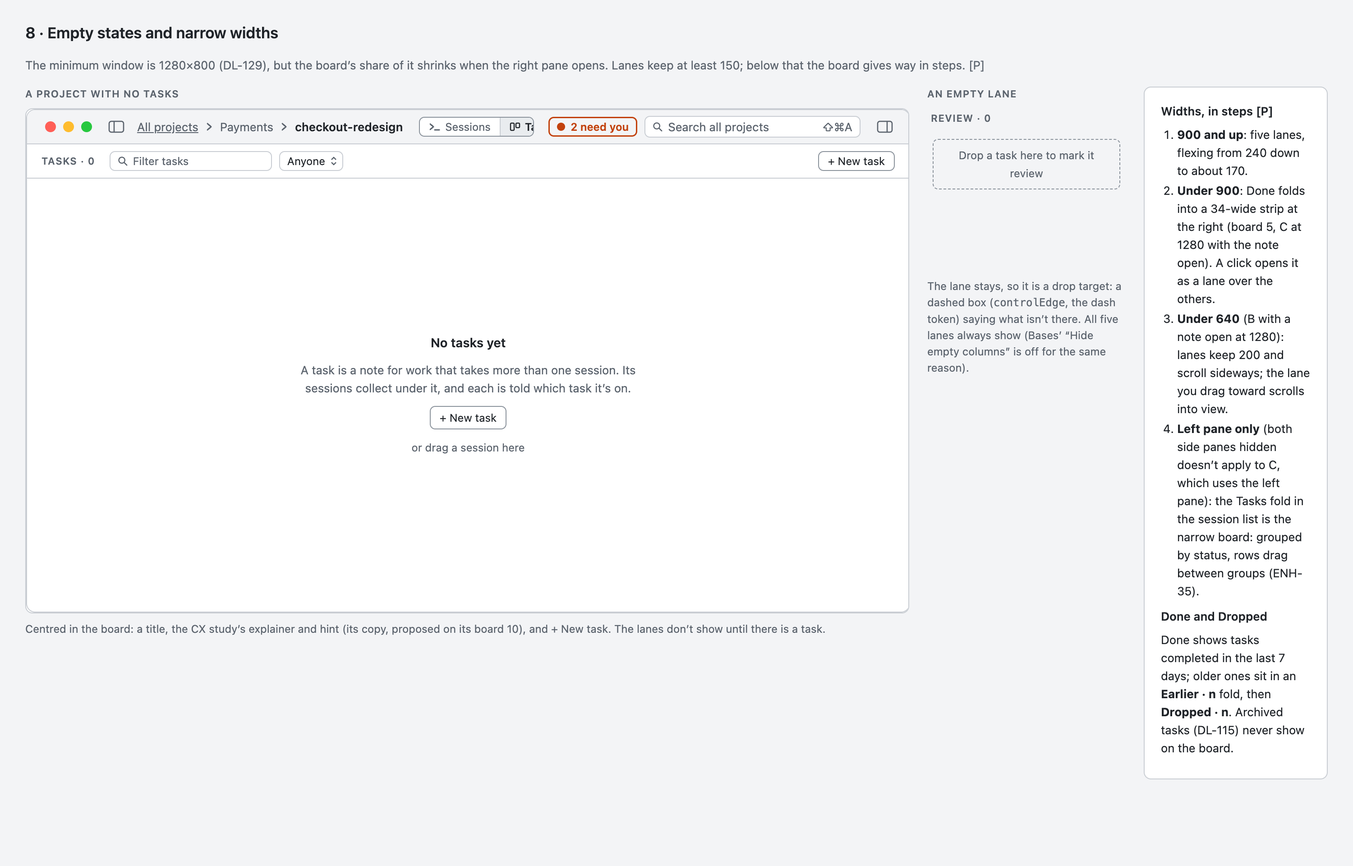
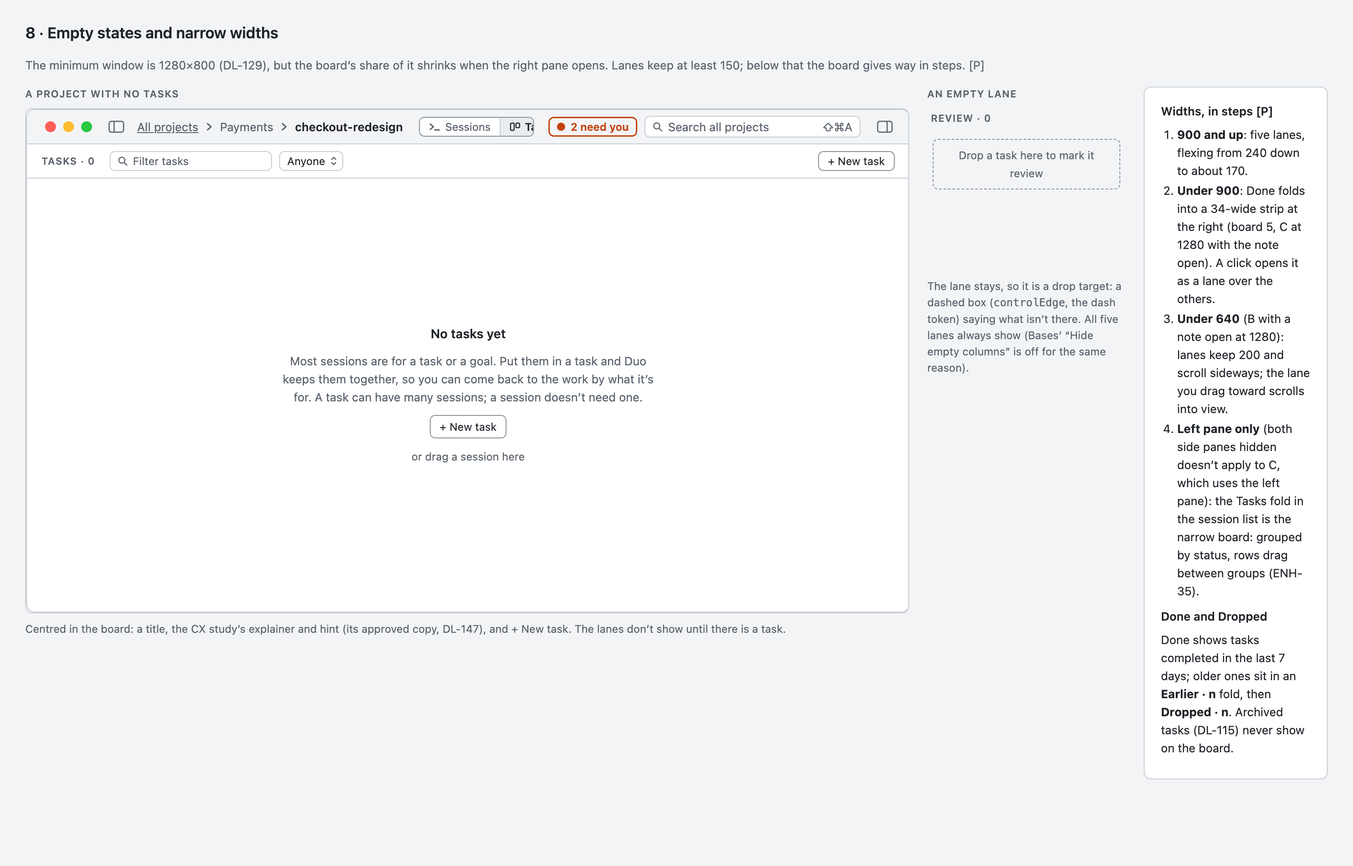
Task board: lanes: lives in the project's brief (DL-147), and the empty board uses the approved copy
DL-150 gains a pointer: `lanes:` goes in whichever note is the brief (_PROJECT.md, PROJECT.md,
or a project_brief note). Boards 8 and 12 updated and republished.

Claude-Session: https://claude.ai/code/session_01XMo91HX8JL9bL8pN3aSwBY

Changed region(s): [[0.217, 0.375, 0.496, 0.5312], [0.279, 0.7188, 0.589, 0.75]]

diff --git a/docs/design/task-board-study/canvas/boards/12-columns.html b/docs/design/task-board-study/canvas/boards/12-columns.html
@@ -135,7 +135,7 @@ table.cmp thead th{font:600 11px/16px -apple-system,system-ui,sans-serif;letter-
 </style>
 </head>
 <body>
-<div class="bd" style="width:1760px;height:1120px;gap:14px"><div class="bt">12 · Adding and removing columns</div><div class="bsub">Geoff, on board 4: “we need a way to add/remove columns”. A column <i>is</i> a <code>status</code> value, so adding “Blocked” means tasks dropped there get <code>status: blocked</code>: plain text that Obsidian, Bases and TaskNotes read. The project’s list of columns needs a home on disk; the proposal is a <code>lanes</code> list in <code>PROJECT.md</code>, written only once you change the default five [P].</div><div style="display:flex;gap:20px;align-items:flex-start"><div style="display:flex;flex-direction:column;gap:8px;flex:none"><div class="cap">A project with a Blocked column; the Review column’s menu open; + Add Column</div><div class="frame" style="width:1200px;height:560px;"><div class="w" style="width:1200px;height:560px;border:1px solid #C9CDD3;border-radius:10px"><div class="tb">
+<div class="bd" style="width:1760px;height:1120px;gap:14px"><div class="bt">12 · Adding and removing columns</div><div class="bsub">Geoff, on board 4: “we need a way to add/remove columns”. A column <i>is</i> a <code>status</code> value, so adding “Blocked” means tasks dropped there get <code>status: blocked</code>: plain text that Obsidian, Bases and TaskNotes read. The project’s list of columns is a <code>lanes</code> list in the project’s brief (<code>_PROJECT.md</code>, <code>PROJECT.md</code> or the <code>project_brief</code> note, DL-147), written only once you change the default five (DL-150).</div><div style="display:flex;gap:20px;align-items:flex-start"><div style="display:flex;flex-direction:column;gap:8px;flex:none"><div class="cap">A project with a Blocked column; the Review column’s menu open; + Add Column</div><div class="frame" style="width:1200px;height:560px;"><div class="w" style="width:1200px;height:560px;border:1px solid #C9CDD3;border-radius:10px"><div class="tb">
 <span class="tl"><i style="background:#FF5F57"></i><i style="background:#FEBC2E"></i><i style="background:#28C840"></i></span>
 <span class="tgl"><svg width="18" height="14" viewBox="0 0 18 14"><rect x="1" y="1" width="16" height="12" rx="2.5" fill="none" stroke="#5B636D" stroke-width="1.3"/><path d="M6.5 1v12" stroke="#5B636D" stroke-width="1.3"/></svg></span>
 <span style="text-decoration:underline;color:#5B636D">All projects</span><svg width="8" height="10" viewBox="0 0 8 10" style="flex:none"><path d="M2 1.5 6 5 2 8.5" fill="none" stroke="#5B636D" stroke-width="1.5" stroke-linecap="round" stroke-linejoin="round"/></svg><span class="t2">Payments</span><svg width="8" height="10" viewBox="0 0 8 10" style="flex:none"><path d="M2 1.5 6 5 2 8.5" fill="none" stroke="#5B636D" stroke-width="1.5" stroke-linecap="round" stroke-linejoin="round"/></svg><span style="font-weight:600">checkout-redesign</span><span class="segc" style="margin-left:10px"><span class="" style="gap:5px"><svg width="13" height="10" viewBox="0 0 13 10"><path d="M1.5 2 5 5 1.5 8" fill="none" stroke="currentColor" stroke-width="1.5" stroke-linecap="round" stroke-linejoin="round"/><path d="M6.5 8.5h5" stroke="currentColor" stroke-width="1.5" stroke-linecap="round"/></svg>Sessions</span><span class="on" style="gap:5px"><svg width="12" height="10" viewBox="0 0 12 10" style="flex:none"><rect x="1" y="1" width="4" height="8" rx="1" fill="none" stroke="currentColor" stroke-width="1.2"/><rect x="7" y="1" width="4" height="5" rx="1" fill="none" stroke="currentColor" stroke-width="1.2"/></svg>Tasks</span></span>
@@ -144,7 +144,7 @@ table.cmp thead th{font:600 11px/16px -apple-system,system-ui,sans-serif;letter-
 <span class="tgl" style="margin-left:4px"><svg width="18" height="14" viewBox="0 0 18 14"><rect x="1" y="1" width="16" height="12" rx="2.5" fill="none" stroke="#5B636D" stroke-width="1.3"/><path d="M11.5 1v12" stroke="#5B636D" stroke-width="1.3"/></svg></span>
 </div><div style="display:flex;flex:1;min-height:0"><div style="flex:1;display:flex;flex-direction:column"><div style="display:flex;align-items:center;gap:8px;height:38px;flex:none;padding:0 16px;border-bottom:1px solid #C9CDD3"><span class="sl">Tasks · 11</span><span class="filter" style="width:180px;margin-left:8px"><svg width="11" height="11" viewBox="0 0 12 12" style="flex:none"><circle cx="5" cy="5" r="3.6" fill="none" stroke="#5B636D" stroke-width="1.3"/><path d="M7.8 7.8 11 11" stroke="#5B636D" stroke-width="1.3" stroke-linecap="round"/></svg>Filter tasks</span><span class="popup">Anyone<svg width="7" height="10" viewBox="0 0 7 10"><path d="M1 3.5 3.5 1 6 3.5M1 6.5 3.5 9 6 6.5" fill="none" stroke="#5B636D" stroke-width="1.2"/></svg></span><span style="flex:1"></span><span class="btn" style="align-self:center;height:22px">+ New task</span></div><div style="display:flex;gap:10px;flex:1;min-height:0;padding:10px 16px 16px;position:relative"><div class="lane"><div class="lh" style=""><span>Open · 3</span></div><div class="lb"><div class="tc"><div class="tt"><svg width="10" height="10" viewBox="0 0 10 10" style="flex:none"><rect x="1" y="1" width="8" height="8" rx="2" fill="none" stroke="#5B636D" stroke-width="1.3"/></svg><span style="flex:1">Pricing page copy</span></div></div><div class="tc"><div class="tt"><svg width="10" height="10" viewBox="0 0 10 10" style="flex:none"><rect x="1" y="1" width="8" height="8" rx="2" fill="none" stroke="#5B636D" stroke-width="1.3"/></svg><span style="flex:1">Refund flow edge cases</span></div></div><div class="tc"><div class="tt"><svg width="10" height="10" viewBox="0 0 10 10" style="flex:none"><rect x="1" y="1" width="8" height="8" rx="2" fill="none" stroke="#5B636D" stroke-width="1.3"/></svg><span style="flex:1">Pull the top three quotes</span></div></div></div></div><div class="lane"><div class="lh" style=""><span>In progress · 2</span></div><div class="lb"><div class="tc"><div class="tt"><svg width="10" height="10" viewBox="0 0 10 10" style="flex:none"><rect x="1" y="1" width="8" height="8" rx="2" fill="none" stroke="#5B636D" stroke-width="1.3"/></svg><span style="flex:1">PRD v2</span></div></div><div class="tc"><div class="tt"><svg width="10" height="10" viewBox="0 0 10 10" style="flex:none"><rect x="1" y="1" width="8" height="8" rx="2" fill="none" stroke="#5B636D" stroke-width="1.3"/></svg><span style="flex:1">Exec review prep</span></div></div></div></div><div class="lane"><div class="lh" style=""><span>Blocked · 1</span></div><div class="lb"><div class="tc"><div class="tt"><svg width="10" height="10" viewBox="0 0 10 10" style="flex:none"><rect x="1" y="1" width="8" height="8" rx="2" fill="none" stroke="#5B636D" stroke-width="1.3"/></svg><span style="flex:1">Analytics events spec</span></div><div class=mt><span>waiting on Data team</span></div></div></div></div><div class="lane"><div class="lh" style=""><span>Review · 1</span><span style="margin-left:auto;width:18px;height:18px;border-radius:4px;display:flex;align-items:center;justify-content:center;background:#E9ECEF;color:#1F2328">⋯</span></div><div class="lb"><div class="tc"><div class="tt"><svg width="10" height="10" viewBox="0 0 10 10" style="flex:none"><rect x="1" y="1" width="8" height="8" rx="2" fill="none" stroke="#5B636D" stroke-width="1.3"/></svg><span style="flex:1">Checkout copy audit</span></div></div></div></div><div class="lane"><div class="lh" style=""><span>Done · 2</span></div><div class="lb"><div class="tc"><div class="tt"><svg width="10" height="10" viewBox="0 0 10 10" style="flex:none"><rect x="1" y="1" width="8" height="8" rx="2" fill="none" stroke="#5B636D" stroke-width="1.3"/></svg><span style="flex:1">Interview synthesis</span></div></div></div></div><div style="width:150px;flex:none;display:flex;flex-direction:column;gap:6px"><div class="lh" style="color:#1F2328">&nbsp;</div><div style="border:1px dashed #8B939C;border-radius:6px;padding:8px 10px;display:flex;flex-direction:column;gap:6px"><span class="filter" style="width:100%">Column name</span><span class="note">Return adds it · Esc</span></div><div style="display:flex;align-items:center;gap:6px;color:#5B636D;font-size:12px;padding:0 4px"><svg width="10" height="10" viewBox="0 0 10 10" style="flex:none"><path d="M5 1.5v7M1.5 5h7" stroke="#5B636D" stroke-width="1.4" stroke-linecap="round"/></svg>Add Column</div></div><div style="position:absolute;left:680px;top:136px;width:220px;background:#FFFFFF;border-radius:10px;box-shadow:0 12px 32px rgba(31,35,40,0.22);padding:6px 0;font-size:13px;line-height:20px;z-index:2"><div style="height:24px;display:flex;align-items:center;padding:0 14px;">Move Left</div><div style="height:24px;display:flex;align-items:center;padding:0 14px;">Move Right</div><div style="height:1px;background:#C9CDD3;margin:5px 0"></div><div style="height:24px;display:flex;align-items:center;padding:0 14px;">Add Column After…</div><div style="height:1px;background:#C9CDD3;margin:5px 0"></div><div style="height:24px;display:flex;align-items:center;padding:0 14px;">Remove Column…</div></div></div></div></div></div></div><div class="note" style="width:1200px"><b>+ Add Column</b> at the end of the lanes: a name field; Return adds the lane (the status is the name’s slug: Blocked → <code>blocked</code>). Each lane header has ⋯ on hover: Move Left, Move Right, Add Column After…, Remove Column…. Lane headers also drag to reorder. Open and Done can’t be removed: new tasks start in Open and Mark Complete needs Done (their Remove item is dimmed).</div></div>
 <div style="display:flex;flex-direction:column;gap:14px;flex:1;min-width:0"><div style="width:420px;background:#FFFFFF;border:1px solid #C9CDD3;border-radius:10px;box-shadow:0 12px 32px rgba(31,35,40,0.22);padding:16px 18px;display:flex;flex-direction:column;gap:10px;white-space:normal"><div style="font-weight:600">Remove the Review column?</div><div class="t2">Its task moves to the column you choose. Nothing else in the note changes.</div><div style="background:#F3F4F6;border-radius:6px;padding:6px 10px;font-size:12px"><svg width="10" height="10" viewBox="0 0 10 10" style="flex:none"><rect x="1" y="1" width="8" height="8" rx="2" fill="none" stroke="#5B636D" stroke-width="1.3"/></svg> Checkout copy audit</div><div style="display:flex;align-items:center;gap:8px">Move it to <span class="popup">In progress<svg width="7" height="10" viewBox="0 0 7 10"><path d="M1 3.5 3.5 1 6 3.5M1 6.5 3.5 9 6 6.5" fill="none" stroke="#5B636D" stroke-width="1.2"/></svg></span></div><div style="display:flex;gap:8px;justify-content:flex-end"><span class="btn">Cancel</span><span class="btn" style="font-weight:600;border-color:#1F2328">Remove Column</span></div></div><div class="note">Removing a column that holds tasks asks where they go (a Duo question, never an alert), then writes each task’s <code>status</code>. An empty column just goes (⌘Z brings it back).</div>
-<div class="txt"><h3><code>PROJECT.md</code>, after adding Blocked</h3><div class="diffl"><span class="ctx">type: project</span><span class="ctx">title: Checkout redesign</span><span class="ctx">status: active</span><span class="ctx">health: on-track</span><span class="add">+lanes:</span><span class="add">+  - open</span><span class="add">+  - in-progress</span><span class="add">+  - blocked</span><span class="add">+  - review</span><span class="add">+  - done</span></div><p class="note">Absent means the default five. Duo adds the key the first time you change columns, and edits only its lines afterwards.</p></div></div></div>
+<div class="txt"><h3>The brief (<code>_PROJECT.md</code>), after adding Blocked</h3><div class="diffl"><span class="ctx">type: project</span><span class="ctx">title: Checkout redesign</span><span class="ctx">status: active</span><span class="ctx">health: on-track</span><span class="add">+lanes:</span><span class="add">+  - open</span><span class="add">+  - in-progress</span><span class="add">+  - blocked</span><span class="add">+  - review</span><span class="add">+  - done</span></div><p class="note">Absent means the default five. Duo adds the key the first time you change columns, and edits only its lines afterwards.</p></div></div></div>
 <div style="display:flex;gap:14px">
 <div class="txt" style="flex:1"><h3>Rules [P]</h3><ul>
 <li><b>A column is a status.</b> No column exists only in Duo’s view state. Set Status ▸ (DL-115) lists the project’s columns, then dropped.</li>

diff --git a/docs/design/task-board-study/canvas/boards/08-empty-narrow.html b/docs/design/task-board-study/canvas/boards/08-empty-narrow.html
@@ -144,8 +144,8 @@ table.cmp thead th{font:600 11px/16px -apple-system,system-ui,sans-serif;letter-
 <span class="tgl" style="margin-left:4px"><svg width="18" height="14" viewBox="0 0 18 14"><rect x="1" y="1" width="16" height="12" rx="2.5" fill="none" stroke="#5B636D" stroke-width="1.3"/><path d="M11.5 1v12" stroke="#5B636D" stroke-width="1.3"/></svg></span>
 </div><div style="display:flex;flex:1;min-height:0"><div style="flex:1;display:flex;flex-direction:column"><div style="display:flex;align-items:center;gap:8px;height:38px;flex:none;padding:0 16px;border-bottom:1px solid #C9CDD3"><span class="sl">Tasks · 0</span><span class="filter" style="width:180px;margin-left:8px"><svg width="11" height="11" viewBox="0 0 12 12" style="flex:none"><circle cx="5" cy="5" r="3.6" fill="none" stroke="#5B636D" stroke-width="1.3"/><path d="M7.8 7.8 11 11" stroke="#5B636D" stroke-width="1.3" stroke-linecap="round"/></svg>Filter tasks</span><span class="popup">Anyone<svg width="7" height="10" viewBox="0 0 7 10"><path d="M1 3.5 3.5 1 6 3.5M1 6.5 3.5 9 6 6.5" fill="none" stroke="#5B636D" stroke-width="1.2"/></svg></span><span style="flex:1"></span><span class="btn" style="align-self:center;height:22px">+ New task</span></div>
 <div style="flex:1;display:flex;align-items:center;justify-content:center"><div style="width:420px;text-align:center;white-space:normal;display:flex;flex-direction:column;gap:10px;align-items:center">
-<div style="font-weight:600;font-size:14px">No tasks yet</div><div class="t2">A task is a note for work that takes more than one session. Its sessions collect under it, and each is told which task it’s on.</div>
-<div style="display:flex;gap:8px"><span class="btn">+ New task</span></div><div class="t2" style="font-size:12px">or drag a session here</div></div></div></div></div></div></div><div class="note" style="width:980px">Centred in the board: a title, the CX study’s explainer and hint (its copy, proposed on its board 10), and + New task. The lanes don’t show until there is a task.</div></div>
+<div style="font-weight:600;font-size:14px">No tasks yet</div><div class="t2">Most sessions are for a task or a goal. Put them in a task and Duo keeps them together, so you can come back to the work by what it’s for. A task can have many sessions; a session doesn’t need one.</div>
+<div style="display:flex;gap:8px"><span class="btn">+ New task</span></div><div class="t2" style="font-size:12px">or drag a session here</div></div></div></div></div></div></div><div class="note" style="width:980px">Centred in the board: a title, the CX study’s explainer and hint (its approved copy, DL-147), and + New task. The lanes don’t show until there is a task.</div></div>
 <div style="display:flex;flex-direction:column;gap:8px;width:220px"><div class="cap">An empty lane</div><div style="height:180px;display:flex"><div class="lane"><div class="lh"><span>Review · 0</span></div><div class="lb"><div class="drop" style="height:56px;padding:0 10px;text-align:center;white-space:normal">Drop a task here to mark it review</div></div></div></div><div class="note">The lane stays, so it is a drop target: a dashed box (<code>controlEdge</code>, the dash token) saying what isn’t there. All five lanes always show (Bases’ “Hide empty columns” is off for the same reason).</div></div>
 <div class="txt" style="flex:1"><h3>Widths, in steps [P]</h3><ol>
 <li><b>900 and up</b>: five lanes, flexing from 240 down to about 170.</li>

diff --git a/docs/design/task-board-study/canvas/make.py b/docs/design/task-board-study/canvas/make.py
@@ -639,13 +639,13 @@ board("07-drag", 1500, 1060, "7 · Drag", "Between lanes, onto Done, a session o
 # ---------- 8 · empty and narrow ----------
 empty_win = pwindow(980, 560, f'''<div style="flex:1;display:flex;flex-direction:column">{board_header().replace("Tasks · 11", "Tasks · 0")}
 <div style="flex:1;display:flex;align-items:center;justify-content:center"><div style="width:420px;text-align:center;white-space:normal;display:flex;flex-direction:column;gap:10px;align-items:center">
-<div style="font-weight:600;font-size:14px">No tasks yet</div><div class="t2">A task is a note for work that takes more than one session. Its sessions collect under it, and each is told which task it’s on.</div>
+<div style="font-weight:600;font-size:14px">No tasks yet</div><div class="t2">Most sessions are for a task or a goal. Put them in a task and Duo keeps them together, so you can come back to the work by what it’s for. A task can have many sessions; a session doesn’t need one.</div>
 <div style="display:flex;gap:8px"><span class="btn">+ New task</span></div><div class="t2" style="font-size:12px">or drag a session here</div></div></div></div>''', ptoolbar(toggle="board"))
 empty_lane = lane("review", "Review", '<div class="drop" style="height:56px;padding:0 10px;text-align:center;white-space:normal">Drop a task here to mark it review</div>', 0)
 board("08-empty-narrow", 1500, 960, "8 · Empty and narrow", "No tasks, an empty lane, and widths.", bd(1500, 960,
     "8 · Empty states and narrow widths",
     "The minimum window is 1280×800 (DL-129), but the board’s share of it shrinks when the right pane opens. Lanes keep at least 150; below that the board gives way in steps. [P]",
-    f'''<div style="display:flex;gap:20px;align-items:flex-start">{frame(empty_win, 980, 560, "A project with no tasks", "Centred in the board: a title, the CX study’s explainer and hint (its copy, proposed on its board 10), and + New task. The lanes don’t show until there is a task.")}
+    f'''<div style="display:flex;gap:20px;align-items:flex-start">{frame(empty_win, 980, 560, "A project with no tasks", "Centred in the board: a title, the CX study’s explainer and hint (its approved copy, DL-147), and + New task. The lanes don’t show until there is a task.")}
 <div style="display:flex;flex-direction:column;gap:8px;width:220px"><div class="cap">An empty lane</div><div style="height:180px;display:flex">{empty_lane}</div><div class="note">The lane stays, so it is a drop target: a dashed box (<code>controlEdge</code>, the dash token) saying what isn’t there. All five lanes always show (Bases’ “Hide empty columns” is off for the same reason).</div></div>
 <div class="txt" style="flex:1"><h3>Widths, in steps [P]</h3><ol>
 <li><b>900 and up</b>: five lanes, flexing from 240 down to about 170.</li>
@@ -898,10 +898,10 @@ proj_diff = (f'<div class="diffl"><span class="ctx">type: project</span><span cl
              f'<span class="add">+lanes:</span><span class="add">+  - open</span><span class="add">+  - in-progress</span><span class="add">+  - blocked</span><span class="add">+  - review</span><span class="add">+  - done</span></div>')
 board("12-columns", 1760, 1120, "12 · Adding and removing columns", "Columns are status values; the project's list of them lives in PROJECT.md.", bd(1760, 1120,
     "12 · Adding and removing columns",
-    "Geoff, on board 4: “we need a way to add/remove columns”. A column <i>is</i> a <code>status</code> value, so adding “Blocked” means tasks dropped there get <code>status: blocked</code>: plain text that Obsidian, Bases and TaskNotes read. The project’s list of columns needs a home on disk; the proposal is a <code>lanes</code> list in <code>PROJECT.md</code>, written only once you change the default five [P].",
+    "Geoff, on board 4: “we need a way to add/remove columns”. A column <i>is</i> a <code>status</code> value, so adding “Blocked” means tasks dropped there get <code>status: blocked</code>: plain text that Obsidian, Bases and TaskNotes read. The project’s list of columns is a <code>lanes</code> list in the project’s brief (<code>_PROJECT.md</code>, <code>PROJECT.md</code> or the <code>project_brief</code> note, DL-147), written only once you change the default five (DL-150).",
     f'''<div style="display:flex;gap:20px;align-items:flex-start">{frame(cols_win, 1200, 560, "A project with a Blocked column; the Review column’s menu open; + Add Column", "<b>+ Add Column</b> at the end of the lanes: a name field; Return adds the lane (the status is the name’s slug: Blocked → <code>blocked</code>). Each lane header has ⋯ on hover: Move Left, Move Right, Add Column After…, Remove Column…. Lane headers also drag to reorder. Open and Done can’t be removed: new tasks start in Open and Mark Complete needs Done (their Remove item is dimmed).")}
 <div style="display:flex;flex-direction:column;gap:14px;flex:1;min-width:0">{question}<div class="note">Removing a column that holds tasks asks where they go (a Duo question, never an alert), then writes each task’s <code>status</code>. An empty column just goes (⌘Z brings it back).</div>
-<div class="txt"><h3><code>PROJECT.md</code>, after adding Blocked</h3>{proj_diff}<p class="note">Absent means the default five. Duo adds the key the first time you change columns, and edits only its lines afterwards.</p></div></div></div>
+<div class="txt"><h3>The brief (<code>_PROJECT.md</code>), after adding Blocked</h3>{proj_diff}<p class="note">Absent means the default five. Duo adds the key the first time you change columns, and edits only its lines afterwards.</p></div></div></div>
 <div style="display:flex;gap:14px">
 <div class="txt" style="flex:1"><h3>Rules [P]</h3><ul>
 <li><b>A column is a status.</b> No column exists only in Duo’s view state. Set Status ▸ (DL-115) lists the project’s columns, then dropped.</li>

diff --git a/docs/design/decisions.md b/docs/design/decisions.md
@@ -321,5 +321,5 @@ Context: `docs/plan/concerns-and-questions.md`, asked one by one.
 | # | Topic | Decision | Options weighed | Consequences |
 |---|---|---|---|---|
 | DL-148 | A visual way to track a project's tasks (Q-119, Q-120, Q-121; Geoff, 2026-10-07: "projects would benefit from a visual way of tracking tasks besides the left column — do some research into the obsidian kanban feature"; by buttons, two rounds, on the canvas https://claude.ai/artifact/1yVhqtQsaXow8GGRQsUaYN) | **A board computed from the task notes, placed as C, with session rows on cards.** (1) **Data: (a) + (c)** (`docs/research/task-board.md` §2): lanes are `status`; a drag writes only the `status:` line (and `completed:`, as Set Status does), through the editor's buffer when the note is open; ⌘Z undoes it. No order, lane or position key is ever written. **"Add Obsidian Board" (DL-20)** writes `tasks.base` with a `kanban` view grouped by `status`, **`groupOrder` pinned** to the project's lanes (Q-121), sorted by due then created, plus the table view; Duo never edits it afterwards except through an explicit **Update Obsidian Board** that rewrites only the `groupOrder` lines Duo wrote. Duo never writes a Kanban-plugin note. (2) **Where: C** (Q-119): a **Sessions \| Tasks** switch in a project's toolbar (and a Board link on the Tasks fold); Tasks puts the board over the left and middle panes, and **clicking a card shows its note in the right pane** beside it. At 1280 with the note open, Done folds into a strip (board 5). (3) **Order inside a lane: computed** (Q-120): needs you, then due, then oldest; nothing stored. (4) **Session rows on cards (S1, board 11)**, Geoff: "we need clearer iconography to show that a session is a session (which clicking on will open)": a Sessions label with the session mark, then a filled row per session (glyph, title, wait; up to 3, then "+n more"); hover shows the open arrow; a click opens that session (switches to Sessions with it selected and in front). (5) Cards, drag, empty and narrow as boards 6 to 8; the empty board's copy and the session-onto-card drop are the CX study's. | A: a Board tab in the right pane; B: the board over the middle and right with the session list kept; (b) a Kanban-plugin note; manual order with a rank key in each note; session chips (S2) or a count with a popover (S3); a base without `groupOrder`, or table only | Boards in `docs/design/task-board-study/` (study, not yet exported as a handoff). New verb `duo2 task board [show\|hide\|toggle]` (DL-71); drops use `duo2 task status` and `duo2 task add`. Updates the format doc's Q1 default: Bases Kanban is public since 1.14.4 (F-191). C-52 stands: a status outside `groupOrder` is hidden in Obsidian's board. Not built; a build is a separate job. |
-| DL-150 | Columns, and a task's references (Q-127, Q-128; Geoff, 2026-10-07: "we need a way to add/remove columns" and "tasks should have a way to associate documents and links to them; this can be vanilla markdown on disk, but the ui should help organize and present it, and add autocomplete for local files"; by buttons on the same canvas) | **(1) A column is a status value; a project's columns are a `lanes:` list in `PROJECT.md`** (Q-127, board 12): a plain list of status values, written only when someone first changes the default five (absent = `open, in-progress, waiting, review, done`), and edited surgically after. **+ Add Column** (the name's slug is the status: Blocked → `blocked`), each lane's ⋯ menu (Move Left, Move Right, Add Column After…, Remove Column…), lane headers drag to reorder. Open and Done can't be removed. Removing a column that holds tasks asks in a Duo question where they go, then writes each task's `status`. Statuses not in `lanes` still show as extra lanes with **Keep as Column**. Set Status ▸ lists the project's lanes, then dropped. "Add Obsidian Board" writes `groupOrder` from `lanes`, and the board says when the base is out of date. **(2) A task's references are a frontmatter `references:` list** (Q-128, board 13; Geoff: "yes to frontmatter -- should also accept folders as a document type; so maybe this is actually 'references'"): quoted relative markdown links to files **and folders** (trailing `/`) and URLs, the same shape as `depends_on` and `sessions`; written only when one is added; Duo edits only that key. The note's properties show them as rows (a file, folder or globe mark, the text, the path or domain); the field under them completes files and folders (the project's first) and accepts pasted URLs; files and folders dragged from the file tree onto a note or card are added; a click opens a document in a right-pane tab, reveals a folder, opens a URL per DL-3. Body links stay just links (DL-93), with **Add to References** on their menu. Typing `[[` or `@` in a note completes files too and writes a relative markdown link (DL-17). Cards show a page mark and the count. | `.duo/` for the column list; columns in Duo's view state only; a body `## Documents` section; the name `documents` | Two new keys for the templates session (duo-v2-bb): `lanes:` in PROJECT.md and `references:` in task notes, neither in a template as an empty key. Format doc §4.2/§4.6 gain both. A folder link may show as unresolved in Obsidian [U]. Renaming a column (rewriting every task in it) isn't offered yet. |
+| DL-150 | Columns, and a task's references (Q-127, Q-128; Geoff, 2026-10-07: "we need a way to add/remove columns" and "tasks should have a way to associate documents and links to them; this can be vanilla markdown on disk, but the ui should help organize and present it, and add autocomplete for local files"; by buttons on the same canvas) | **(1) A column is a status value; a project's columns are a `lanes:` list in `PROJECT.md`** (Q-127, board 12): a plain list of status values, written only when someone first changes the default five (absent = `open, in-progress, waiting, review, done`), and edited surgically after. **+ Add Column** (the name's slug is the status: Blocked → `blocked`), each lane's ⋯ menu (Move Left, Move Right, Add Column After…, Remove Column…), lane headers drag to reorder. Open and Done can't be removed. Removing a column that holds tasks asks in a Duo question where they go, then writes each task's `status`. Statuses not in `lanes` still show as extra lanes with **Keep as Column**. Set Status ▸ lists the project's lanes, then dropped. "Add Obsidian Board" writes `groupOrder` from `lanes`, and the board says when the base is out of date. **(2) A task's references are a frontmatter `references:` list** (Q-128, board 13; Geoff: "yes to frontmatter -- should also accept folders as a document type; so maybe this is actually 'references'"): quoted relative markdown links to files **and folders** (trailing `/`) and URLs, the same shape as `depends_on` and `sessions`; written only when one is added; Duo edits only that key. The note's properties show them as rows (a file, folder or globe mark, the text, the path or domain); the field under them completes files and folders (the project's first) and accepts pasted URLs; files and folders dragged from the file tree onto a note or card are added; a click opens a document in a right-pane tab, reveals a folder, opens a URL per DL-3. Body links stay just links (DL-93), with **Add to References** on their menu. Typing `[[` or `@` in a note completes files too and writes a relative markdown link (DL-17). Cards show a page mark and the count. | `.duo/` for the column list; columns in Duo's view state only; a body `## Documents` section; the name `documents` | Two new keys for the templates session (duo-v2-bb): `lanes:` in PROJECT.md and `references:` in task notes, neither in a template as an empty key. Format doc §4.2/§4.6 gain both. **The brief, per DL-147:** `lanes:` goes in whichever note is the project's brief (`_PROJECT.md` for new projects, `PROJECT.md`, or a note marked `project_brief: true`); "PROJECT.md" here means that note. A folder link may show as unresolved in Obsidian [U]. Renaming a column (rewriting every task in it) isn't offered yet. |
 | DL-147 | Making projects and putting sessions in tasks (Geoff, 2026-10-07: "the cx of creating projects (from scratch or from legacy project), and assigning tasks needs a thorough study with recommendations — the service design is not intuitive and has no explainer content or affordances"; by buttons, two rounds, on the canvas https://claude.ai/artifact/WXvp7zoUwu3jkXvWPQrATR; `docs/research/project-task-cx.md`) | **(1) Starting a project: A, one sheet** (board 3): New project gains a one-line explainer with Learn more, **Start from: A new folder \| A folder I have \| From GitHub** (the last drawn by the GitHub study), a Goal hint saying Claude reads it, and a **Will write** preview; it doesn't ask for health or next. **A folder I have** takes any folder, listed by Duo or not, says what it found (`.obsidian/`, an OKF `_index.md` with `okf_version`, a git repo, `CLAUDE.md`, sessions) and what it won't touch (board 4); `duo2 project make <path>` takes any folder. **(2) The project file is `_PROJECT.md`** (Geoff: "project-md should have a _ prefix"), and Home's **`_HOME.md`**, for new ones; `PROJECT.md` and `HOME.md` are still read, count as the same file, and are never renamed. **(3) A note can be the brief:** when a folder made a project has a note that could serve (an OKF `_index.md`, a folder note, a README with properties), Duo asks whether it should be the project's brief; yes adds `project_brief: true` to its properties (one key, surgical, at the end; nothing else in the note changes) and writes no `_PROJECT.md`. That key is a second way Duo finds a project; the name comes from the note's `title`. No writes a new `_PROJECT.md`. **(4) Teaching: a Getting started card, every step optional** (board 8), on the Project tab until ticked or hidden, ticking on the real action wherever it's done: write the goal, start a session, make a task, put a session in it. **Health will rarely be used**, so it isn't a step or a sheet field. **A guided Make a Task… sheet** (board 8b): the why, the name, optional Done when, and Sessions (put ones I already have in it, the recent ones listed and ticked; start a new one; none yet). **(5) Putting sessions in tasks: drag a session onto a task** (board 11), and **say why** wherever tasks appear: "Most sessions are for a task or a goal. Put them in a task and Duo keeps them together, so you can come back to the work by what it's for. A task can have many sessions; a session doesn't need one." (boards 8b, 10). Affordances [P, built with this]: New Session in Task ▸ on the console's + menu (board 11b), Move to Task ▸ and Remove from "…" on the session menu (board 12). | Starting: B (choose first), C (a second File command). Teaching: a sample project (ENH-33), words only. Assigning: drag + menus + picker in v1, menus only. Old note: link it from a new brief, add Duo's keys to it, ignore it. File name: `_project.md`; renaming existing files once or all at once; HOME.md unchanged | **Amends DL-18** (the project note's name and a second marker) and DL-52/DL-42 (`_HOME.md`). DL-150's `lanes:` and the templates session's keys go in whichever note is the brief. Board 2's sentences, the tasks empty state (also the task board's, DL-148) and notices with Undo (board 13) are [P] in the v1 slice. New verbs: `duo2 task remove`, `duo2 task add --move`, `duo2 task new --done-when/--session/--start`. Open: Q-114 to Q-118, C-51. Later: Find a Task… picker, ENH-33, ENH-34. Bugs found: F-188, F-189. Not built: the build is a separate session. |

diff --git a/docs/design/task-board-study/README.md b/docs/design/task-board-study/README.md
@@ -25,11 +25,11 @@ Geoff, 2026-10-07: "projects would benefit from a visual way of tracking tasks b
 | `09-obsidian` | The files: a task note, the `tasks.base` Duo would write, a Kanban-plugin note for contrast |
 | `10-recommendation` | The recommendation and a first slice |
 | `11-sessions` | Sessions on a card: S1 rows (chosen) |
-| `12-columns` | Adding and removing columns; `PROJECT.md` `lanes:` |
+| `12-columns` | Adding and removing columns; `lanes:` in the project's brief (`_PROJECT.md`, `PROJECT.md` or the `project_brief` note, DL-147) |
 | `13-documents` | A task's `references:` (documents, folders, links) |
 
 ## Owned elsewhere
 
-- **The explainer copy for "No tasks yet"** belongs to the project & task CX study.
+- **The explainer copy for "No tasks yet"** belongs to the project & task CX study, and its approved line is on board 8.
 - **Dragging a session onto a task** is that study's flow too. The board only accepts the same drop (`duo2 task add`).
 - **The task template** belongs to the templates session. The board adds no keys to it.

diff --git a/docs/research/task-board.md b/docs/research/task-board.md
@@ -18,6 +18,8 @@ Research date: 2026-10-07 · Status: **decided** (DL-148, DL-150; Q-119 to Q-121
 - columns as status values, listed in **`PROJECT.md` `lanes:`** (board 12);
 - a task's documents, folders and links as a frontmatter **`references:`** list (board 13).
 
+"`PROJECT.md`" in this doc means **the project's brief** (DL-147): `_PROJECT.md` for new projects, `PROJECT.md`, or a note marked `project_brief: true`. `lanes:` and `tasks.base` go beside or in that note.
+
 The rest of this section is the study's recommendation as it went to him.
 
 - **Data: compute the board from the task notes, and on request write a Bases board for Obsidian (options a + c).**
